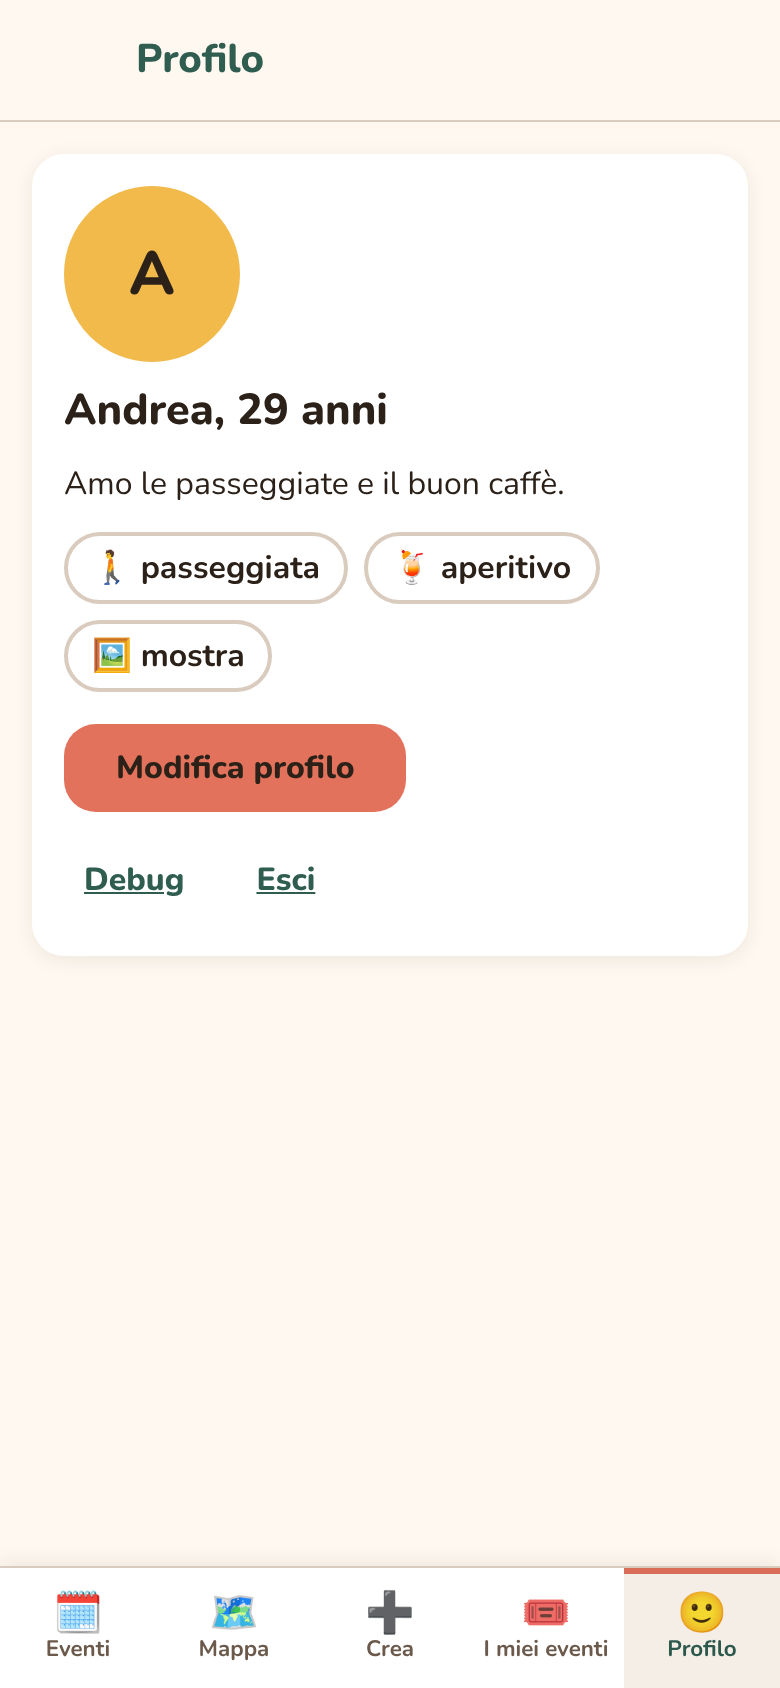
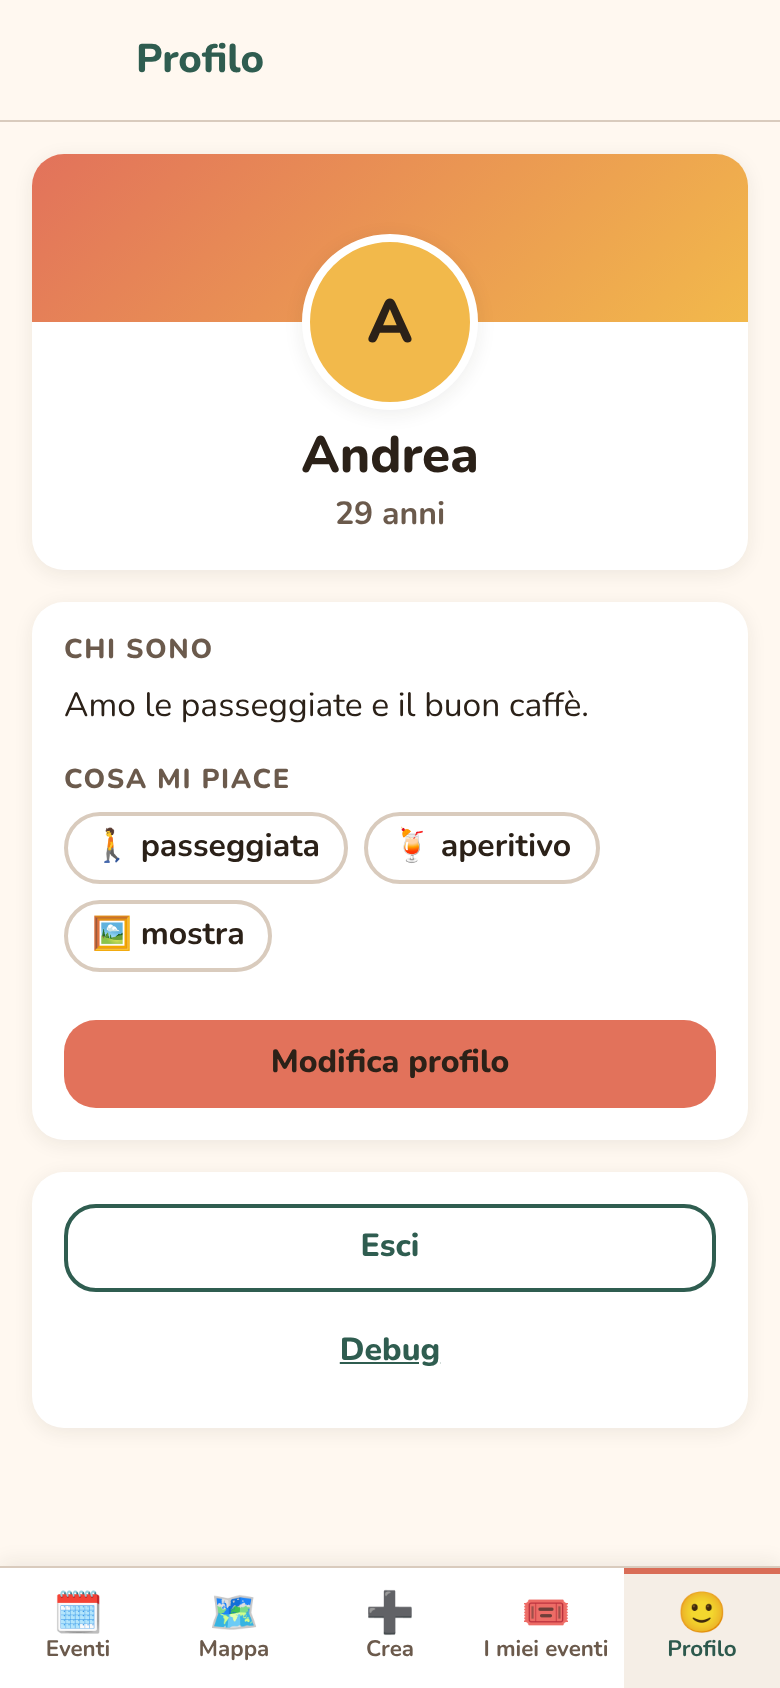
Profilo: scheda ridisegnata (fascia, sezioni, card Account)
Claude-Session: https://claude.ai/code/session_01MWVcDm4YCdjJwNbgjVAjm9

diff --git a/src/screens/ProfileView.tsx b/src/screens/ProfileView.tsx
@@ -10,20 +10,29 @@ interface Props {
   onDebug: () => void
 }
 
-// Scheda "Profilo": avatar, nome ed età (mai la data di nascita), bio, interessi; poi Modifica, Debug, Esci.
+// Scheda "Profilo": in alto fascia colorata con avatar, nome ed età (mai la data di nascita);
+// sotto bio e interessi; in fondo Modifica e una sezione Account con Debug ed Esci.
 export function ProfileView({ profile, onEdit, onDebug }: Props) {
   const { auth } = useServices()
   return (
-    <section className="card profile-card">
-      <Avatar name={profile.nome} size="lg" />
-      <h2>{profile.nome}, {calculateAge(profile.dataNascita)} anni</h2>
-      {profile.bio ? <p>{profile.bio}</p> : <p className="muted">Nessuna bio: raccontati in due righe.</p>}
-      <InterestChips interests={profile.interessi} />
-      <button type="button" onClick={onEdit}>Modifica profilo</button>
-      <div className="stack-actions">
+    <div className="profile-page">
+      <section className="card profile-hero">
+        <div className="profile-band" />
+        <div className="profile-avatar"><Avatar name={profile.nome} size="lg" /></div>
+        <h2>{profile.nome}</h2>
+        <p className="profile-age">{calculateAge(profile.dataNascita)} anni</p>
+      </section>
+      <section className="card profile-about">
+        <h3>Chi sono</h3>
+        {profile.bio ? <p>{profile.bio}</p> : <p className="muted">Nessuna bio: raccontati in due righe.</p>}
+        {profile.interessi.length > 0 && <h3>Cosa mi piace</h3>}
+        <InterestChips interests={profile.interessi} />
+        <button type="button" className="wide" onClick={onEdit}>Modifica profilo</button>
+      </section>
+      <section className="card profile-account" aria-label="Account">
+        <button type="button" className="secondary wide" onClick={() => void auth.logout()}>Esci</button>
         <button type="button" className="link" onClick={onDebug}>Debug</button>
-        <button type="button" className="link" onClick={() => void auth.logout()}>Esci</button>
-      </div>
-    </section>
+      </section>
+    </div>
   )
 }

diff --git a/src/styles/profile-view.css b/src/styles/profile-view.css
@@ -1,0 +1,16 @@
+/* Scheda Profilo: fascia colorata con avatar al centro, poi bio/interessi, poi Account. */
+.profile-page { padding-bottom: var(--space-4); }
+.profile-hero { position: relative; overflow: hidden; text-align: center; padding: 0 var(--space-4) var(--space-4); }
+.profile-band {
+  height: 84px; margin: 0 calc(-1 * var(--space-4));
+  background: linear-gradient(135deg, var(--color-primary), var(--color-accent));
+}
+.profile-avatar { display: flex; justify-content: center; margin-top: -44px; }
+.profile-avatar .avatar { border: 4px solid var(--color-surface); box-shadow: var(--shadow-card); }
+.profile-hero h2 { margin: var(--space-2) 0 0; font-size: 1.6rem; }
+.profile-age { margin: 2px 0 0; color: var(--color-muted); font-weight: 700; }
+.profile-about h3 { margin: 0 0 var(--space-2); font-size: 0.85rem; text-transform: uppercase; letter-spacing: 0.06em; color: var(--color-muted); }
+.profile-about p { margin: 0 0 var(--space-4); font-size: 1.05rem; }
+.profile-about .chip-row { margin-bottom: var(--space-6); }
+.profile-account { display: grid; gap: var(--space-2); justify-items: center; }
+button.wide { width: 100%; }

diff --git a/src/App.test.tsx b/src/App.test.tsx
@@ -70,7 +70,8 @@ describe('App: registrazione, login e logout', () => {
     fireEvent.click(screen.getByRole('button', { name: /aperitivo/ }))
     fireEvent.click(screen.getByRole('button', { name: 'Salva' }))
     fireEvent.click(await screen.findByRole('button', { name: 'Profilo' }))
-    expect(await screen.findByText(/Ada, 3[01] anni/)).toBeInTheDocument()
+    expect(await screen.findByText('Ada')).toBeInTheDocument()
+    expect(screen.getByText(/^3[01] anni$/)).toBeInTheDocument()
     expect(screen.queryByText(/-01-01/)).toBeNull()
   })
 })

diff --git a/src/styles/profile.css b/src/styles/profile.css
@@ -6,8 +6,6 @@
 .avatar-sm { width: 40px; height: 40px; font-size: 0.95rem; }
 .avatar-md { width: 56px; height: 56px; font-size: 1.15rem; }
 .avatar-lg { width: 88px; height: 88px; font-size: 1.9rem; }
-.profile-card { display: flex; flex-direction: column; align-items: flex-start; }
-.profile-card h2 { margin-top: var(--space-3); }
 .avatar-edit { margin-bottom: var(--space-3); }
 .muted { color: var(--color-muted); }
 .chip-row { display: flex; flex-wrap: wrap; gap: var(--space-2); list-style: none; padding: 0; margin: 0 0 var(--space-4); }

diff --git a/src/styles.css b/src/styles.css
@@ -12,4 +12,5 @@
 @import './styles/create.css';
 @import './styles/nav.css';
 @import './styles/profile.css';
+@import './styles/profile-view.css';
 @import './styles/auth.css';

diff --git a/docs/giorno-27-verifica-finale.md b/docs/giorno-27-verifica-finale.md
@@ -22,3 +22,6 @@ Nota sugli screenshot: nelle immagini a pagina intera la barra in basso compare 
 
 ## Esercizio
 In `FiltersMore` aggiungi un pulsante "Azzera filtri" dentro il pannello che rimette `NO_FILTERS`; scrivi un test che attiva una data, lo preme e controlla che il numerino sparisca.
+
+## Aggiunta: scheda Profilo ridisegnata
+Dopo la Fase 2 Andrea ha giudicato la scheda Profilo spoglia e sbilanciata (avatar solo a sinistra, grande vuoto, Debug ed Esci come link nudi). Ora `ProfileView` ha tre card: fascia colorata (sfumatura terracotta-senape) con avatar centrato e bordo bianco, nome ed età; "Chi sono" e "Cosa mi piace" con il pulsante Modifica a tutta larghezza; una card Account con Esci ben visibile e Debug più discreto. Stili in `src/styles/profile-view.css`. Il test di registrazione cercava il testo "Ada, 30 anni" in un solo elemento: ora nome ed età sono in due righe e il test li controlla separatamente (`findByText('Ada')` e `/^3[01] anni$/`). Screenshot `18-profilo-scheda` rifatto e guardato.
